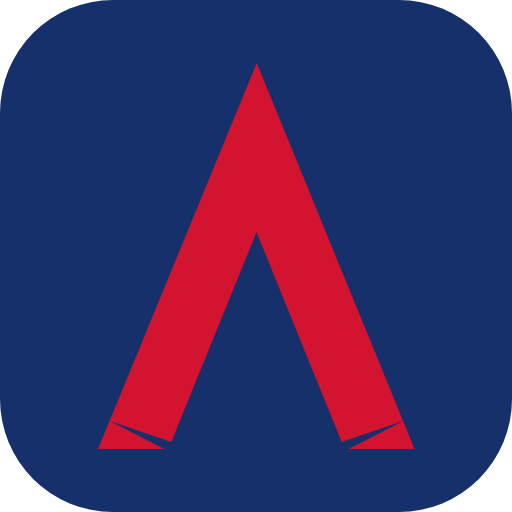
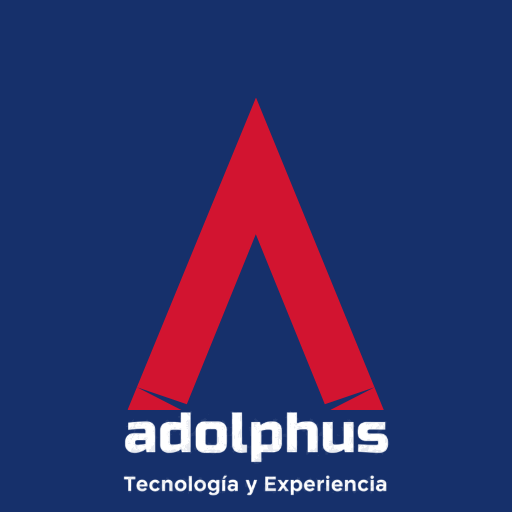
El logotipo de Adolphus en el icono y en la pantalla de arranque
La aplicacion instalada salia con la «A» sola: el simbolo sin la
palabra, asi que en el telefono no se leia de quien es.

Los tres iconos se vuelven a generar del propio logotipo del portal,
sobre el azul de la casa:

· 512 «any» — el logotipo COMPLETO, con «adolphus» y «Tecnologia y
  Experiencia». Es el que Android usa para la pantalla de arranque, y
  como el fondo del icono es el mismo azul del manifiesto, el arranque
  se ve como el logotipo de la empresa a pantalla completa.
· 192 — solo el simbolo: a ese tamaño la palabra no se lee y ensuciar
  el icono del escritorio no ayuda a nadie.
· maskable 512 — el simbolo con margen de seguridad, para que el
  recorte redondo de Android no le coma las puntas.

Generados a partir del mismo dibujo que usa la portada, no de una
captura: quedan nitidos a cualquier tamaño.

Claude-Session: https://claude.ai/code/session_014Z2nme82zkAoNSRJfTkyWy

diff --git a/sw.js b/sw.js
@@ -13,7 +13,7 @@
    Ahora la aplicación abre de la caché al instante, y si hay internet
    se actualiza sola por detrás para la próxima vez.
    ============================================================ */
-const CACHE = 'adolphus-v37';
+const CACHE = 'adolphus-v38';
 
 /* Ninguna petición a la red puede tardar más que esto. Sin este tope,
    una antena que no lleva a ninguna parte cuelga la promesa para
